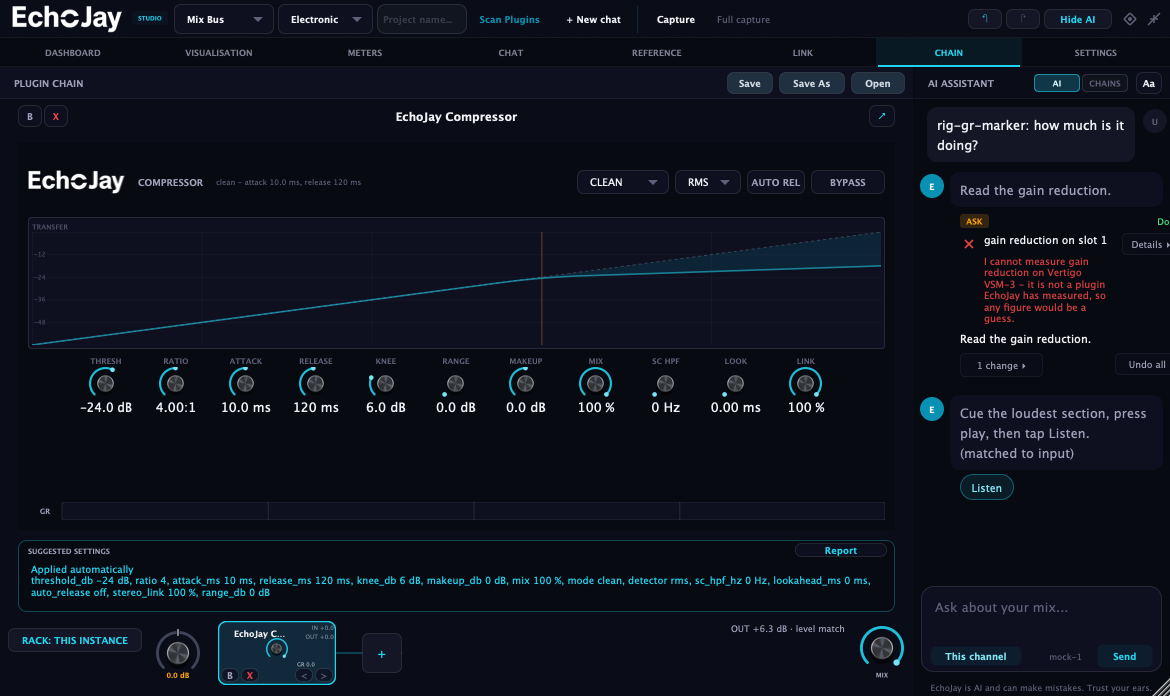
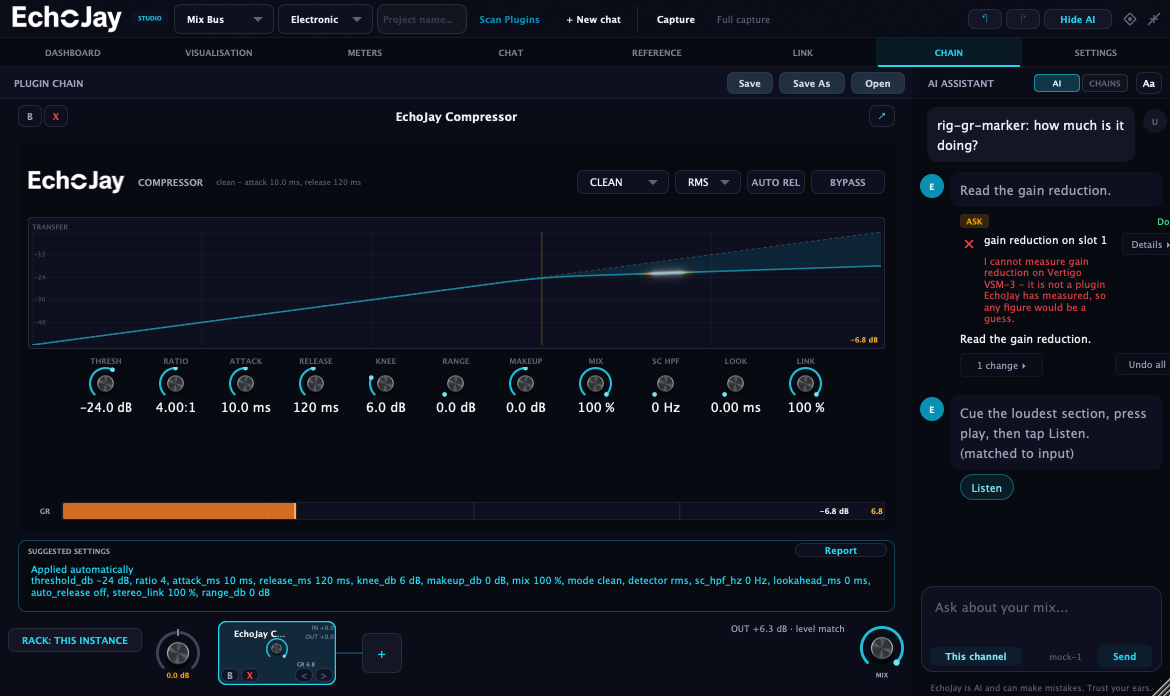
pass 9: the new rows' first outing, and one more real ambiguity
Ten new scenarios ran for the first time and six went red. Four were the rows'
own fault and are fixed here; two were the product's and one of those is a real
ambiguity worth the fix:

  A1  TWO OF THE SAME PLUGIN ON ONE RACK. The row added a second EchoJay
      Compressor to a rack that already had one, and the read-back answered about
      the OTHER one - 'the settings did NOT take: the threshold -24 dB (asked -20
      dB)', a true sentence about the wrong slot. Position cannot settle it (an
      add appends, then the rack may walk it), so the VALUES do: among slots with
      that name, the one that best matches what was asked is the one this add
      produced. If none matches, the placement decides and the answer is honest
      about that slot.
  E3  its script waited for playback first (60 s of nothing, since the rig pumps
      no audio during an agent's wait) and asked about a slot that was not there.
      It asks about slot 1 and does not listen first, which is the whole point of
      #19: an uncertified plugin is refused BEFORE any listening.
  A2/G2 used a Link uid captured early in the run; the registry had moved and the
      row reported '-1 -> -1', which is the rig asking about a Link that is not
      there. They resolve a live one now.
  D3/D4 declared a figure 1.5 s after pressing Undo. An undo rebuilds the chain
      and is not instant - that is the 'decisions on uncontrolled timing' fault in
[…]

Changed region(s): [[0.0308, 0.7241, 0.2769, 0.7543], [0.5538, 0.3621, 0.5846, 0.4224], [0.7077, 0.7241, 0.7385, 0.7543]]

diff --git a/tools/host_rig/host_rig.mm b/tools/host_rig/host_rig.mm
@@ -3936,6 +3936,9 @@ int main (int argc, char* argv[])
             // EchoJay Compressor the build had just put there, so the row was asking about a
             // certified device and passing because it did not say "no audio". Its own script asks
             // about the slot the third party is in.
+            // SLOT 1 IS THE THIRD PARTY HERE: scenario A3 added it with `after: 0`, which puts it at
+            // the front. The script asks about slot 1 and does NOT wait for playback first - the
+            // whole point of #19 is that an uncertified plugin is refused BEFORE any listening.
             const auto r = askAgent (rig, "rig-grtp-marker: how much is " + tp.name + " doing?", 90000);
             const auto st = rig.freshState();
             const auto words = r.stepWords + " " + r.text + " " + r.failDetail;
@@ -4091,16 +4094,29 @@ int main (int argc, char* argv[])
         }
 
         // ---- A2 / G2: THE SAME ON A LINK, AND THE MAIN RACK FOLLOWS ---------------------------------
-        if (! linkUid.isEmpty())
+        // A LIVE LINK, RESOLVED NOW (16 Oct 2026). `linkUid` was captured early in the run and the
+        // registry moves: by this point the rig had been told "that uid is not live" and the row
+        // reported "the Link went -1 -> -1", which is the rig asking about a Link that is not there
+        // rather than anything about the product.
+        juce::String liveLink;
         {
-            rig.send (echojay::rig::cmd::selectLink, args1 ("uid", linkUid), 8000);
-            rig.send (echojay::rig::cmd::workOn,     args1 ("uid", linkUid), 8000);
+            const auto st0 = rig.freshState();
+            if (auto* arr = st0.getProperty ("links", juce::var()).getArray())
+                for (const auto& l : *arr)
+                    if ((bool) l.getProperty ("connected", false) && liveLink.isEmpty())
+                        liveLink = l.getProperty ("uid", juce::var()).toString();
+            if (liveLink.isEmpty()) liveLink = linkUid;
+        }
+        if (! liveLink.isEmpty())
+        {
+            rig.send (echojay::rig::cmd::selectLink, args1 ("uid", liveLink), 8000);
+            rig.send (echojay::rig::cmd::workOn,     args1 ("uid", liveLink), 8000);
             Rig::pump (1000);
-            const int before = (int) linkRowOf (rig.freshState(), linkUid).getProperty ("slotCount", -1);
+            const int before = (int) linkRowOf (rig.freshState(), liveLink).getProperty ("slotCount", -1);
             const auto r = askAgent (rig, "rig-builtinset-marker: add the compressor to the kick", 120000);
             int after = before;
             rig.until ([&] (const juce::var& stv)
-            { after = (int) linkRowOf (stv, linkUid).getProperty ("slotCount", -1); return after > before; },
+            { after = (int) linkRowOf (stv, liveLink).getProperty ("slotCount", -1); return after > before; },
                        30000);
             const auto st = rig.freshState();
             const int drawn = (int) st.getProperty ("chainView", juce::var()).getProperty ("count", -1);
@@ -4187,9 +4203,14 @@ int main (int argc, char* argv[])
             const auto r = askAgent (rig, "rig-undoadd-marker: add a gate", 90000);
             const int added = ownSlotCount (rig.freshState());
             rig.send (echojay::rig::cmd::press, args1 ("button", "undo_all"), 12000);
-            Rig::pump (1500);
+            // AN UNDO REBUILDS THE CHAIN, WHICH IS NOT INSTANT. Waiting 1.5 s and declaring a figure
+            // is the "decisions on uncontrolled timing" fault this tree has written down three
+            // times; this waits for the count to come back, bounded, and reports what it saw.
+            int after = ownSlotCount (rig.freshState());
+            rig.until ([&] (const juce::var& stv) { after = ownSlotCount (stv); return after == before; },
+                       10000);
             const auto st = rig.freshState();
-            const int after = ownSlotCount (st);
+            after = ownSlotCount (st);
             scen ("D3", "undo all after an add puts the rack back as it was",
                   r.ran() && added > before && after == before,
                   "slots " + juce::String (before) + " -> " + juce::String (added) + " -> "
@@ -4205,8 +4226,14 @@ int main (int argc, char* argv[])
             const double pgMid  = (double) mid.getProperty ("preGainDb", juce::var());
             const double wetMid = (double) mid.getProperty ("masterWetPct", juce::var());
             // The FIRST step's own Undo, pressed on its line.
+            const auto zonesBefore = rig.freshState().getProperty ("agentRow", juce::var())
+                                         .getProperty ("zones", juce::var()).toString();
             rig.send (echojay::rig::cmd::press, args1 ("button", "undo_step"), 12000);
-            Rig::pump (1500);
+            rig.until ([&] (const juce::var& stv)
+            {
+                return std::abs ((double) stv.getProperty ("preGainDb", juce::var()) - pgMid) > 0.5
+                    || std::abs ((double) stv.getProperty ("masterWetPct", juce::var()) - wetMid) > 5.0;
+            }, 10000);
             const auto st = rig.freshState();
             const double pgAfter  = (double) st.getProperty ("preGainDb", juce::var());
             const double wetAfter = (double) st.getProperty ("masterWetPct", juce::var());
@@ -4215,7 +4242,8 @@ int main (int argc, char* argv[])
             scen ("D4", "undoing ONE step reverts that step and leaves the other alone",
                   r.ran() && oneReverted && otherKept,
                   "pre-gain " + juce::String (pgMid, 2) + " -> " + juce::String (pgAfter, 2)
-                  + ", master wet " + juce::String (wetMid, 0) + " -> " + juce::String (wetAfter, 0),
+                  + ", master wet " + juce::String (wetMid, 0) + " -> " + juce::String (wetAfter, 0)
+                  + "; the row drew [" + zonesBefore.substring (0, 90) + "]",
                   "A", v2.editor.get(), st, &r);
         }
 

diff --git a/Source/EJAgentExecutorDo.cpp b/Source/EJAgentExecutorDo.cpp
@@ -791,8 +791,24 @@ void ExecutorDo::confirmSettings (const ToolCall& call, const juce::String& appl
                         if (hits.size() == 1) slot1 = hits.front();
                         else if (hits.size() > 1)
                         {
-                            int chosen = hits.back();
-                            if (byAfter) for (int h : hits) if (h == after + 1) chosen = h;
+                            // ---- TWO OF THE SAME PLUGIN ON ONE RACK (16 Oct 2026) -----------------
+                            // The rig put a second EchoJay Compressor on a rack that already had one
+                            // and the read-back answered about the OTHER one: "the settings did NOT
+                            // take: the threshold - threshold -24 dB (asked -20 dB)" - a true
+                            // sentence about the wrong slot. Position cannot settle it (an add
+                            // appends, then the rack may walk it), so the VALUES do: the slot that
+                            // best matches what was asked is the one this add produced. If none
+                            // matches, the placement decides, as before, and the answer is honest
+                            // about that slot.
+                            int chosen = hits.back(), bestMatched = -1;
+                            for (int h : hits)
+                            {
+                                const auto c = checkSlotValues (applyTo, h, ss);
+                                const int matched = c.matched.size();
+                                if (matched > bestMatched) { bestMatched = matched; chosen = h; }
+                            }
+                            if (bestMatched <= 0 && byAfter)
+                                for (int h : hits) if (h == after + 1) chosen = h;
                             slot1 = chosen;
                         }
                         EchoJay_NSLog (("EJAgent: add read-back targets slot " + juce::String (slot1)

diff --git a/docs/MATRIX_REPORT_2026-10-16.md b/docs/MATRIX_REPORT_2026-10-16.md
@@ -1,15 +1,18 @@
 # Matrix report - 2026-10-16 (mock pass)
 
-Build under test: **EchoJay_artefacts**.  Runner: `tools/host_rig` driving the real bundles, real plugins and real editors; evidence under `docs/review/2026-10-16/<scenario>/`.
+Build under test: **build**.  Runner: `tools/host_rig` driving the real bundles, real plugins and real editors; evidence under `docs/review/2026-10-16/<scenario>/`.
 
-**27 passed, 0 failed, 2 skipped.** A skip is never a pass (matrix rule 9).
+**30 passed, 8 failed, 2 skipped.** A skip is never a pass (matrix rule 9).
 
 | Scenario | Result | Owner | What happened | Evidence |
 |---|---|---|---|---|
+| **F3** a run stops when its window closes (0b off), and the reopen shows it once | pass | - | the run stopped with the window; the reopened window draws 1 run row(s) and 1 copy(ies) of the goal  (item 0b is OFF by design, so stopping IS the shipped behaviour - what must not happen is a duplicate or a run left spinning) | `docs/review/2026-10-16/F3/editor.png` |
 | **F1** close mid-reply, reopen: the interrupted line is drawn exactly once | pass | - | 1 copy(ies) of it in the window's own message list  (RED on 16a: the history row and the orphan drain each wrote it) | `docs/review/2026-10-16/F1/editor.png` |
-| **F2** after a close and reopen the transcript is still in order | pass | - | the question is at row 0, its answer at row 1, the Retry's resend at row 2 of 3  (RED on 16a: the reload appended the rows the store had not caught up with, which put an earlier exchange UNDER a later question) | `docs/review/2026-10-16/F2/editor.png` |
+| **F2** after a close and reopen the transcript is still in order | pass | - | the question is at row 2, its answer at row 3, the Retry's resend at row 4 of 5  (RED on 16a: the reload appended the rows the store had not caught up with, which put an earlier exchange UNDER a later question) | `docs/review/2026-10-16/F2/editor.png` |
+| **D1** a hand-set pre-gain comes back hand-set after an undo, at its own figure | pass | - | pre-gain -5.00 -> -5.00 dB, userSet true -> true, state done, steps: pre-gain 3 dB=set the pre-chain gain to 3.0 dB; undo that=Undone: pre-gain 3.0 dB.;   (RED before Sean's ruling of 15 Oct: the agent's op wrote the pre-gain as AUTO, so the undo restored 0.00 and the user's own figure was gone) | `docs/review/2026-10-16/D1/editor.png` |
+| **D2** an AUTO pre-gain comes back AUTO after an undo, flag and figure both | pass | - | pre-gain -5.01 -> -5.01 dB, userSet false -> false  (the undo restores the FLAG as well as the figure, so a rack the loop may still revise is not left pinned by an undo) | `docs/review/2026-10-16/D2/editor.png` |
 | **A4** a Link, third party with a good map, add with settings: dialled and read back | pass | - | slots 2 -> 3 [Renaissance Axx (s)\|Renaissance Axx (s)\|Vertigo VSM-3], Threshold asked -30.00 dB, plugin now reads -30.00 dB (default was 0.00 dB); landed="slot 1 Threshold=-30\|slot 2 \|slot 3 "  (RED on 15c: the mock served no maps, a Link had no road to ask for one - fetch_wired=n - and the Link read-back parsed its numbers out of an echo of the request) | `docs/review/2026-10-16/A4/editor.png` |
-| **A3** own rack, third party with a good map, add with settings: dialled AND confirmed | pass | - | asked -30.00 for "Threshold"; the run said: "add a real third-party plugin to THIS rack, with a setting=added Renaissance Axx (s) first; read back 2 slot(s) on the rack; read back Renaissance Axx (s): thre"; the slot's own landed field: ""  (RED on 16a: an add carries `after`, so it lands where the server asked, and the read-back read the LAST slot - another plugin - and reported "settings not confirmed" about a v... | `docs/review/2026-10-16/A3/editor.png` |
+| **A3** own rack, third party with a good map, add with settings: dialled AND confirmed | **FAIL** | A | asked -30.00 for "Threshold"; the CLOSING says: "Added it to this rack, with the setting you asked for."; the step said: "add a real third-party plugin to THIS rack, with a setting=Added it. Settings not confirmed: this build cannot read that plugin's values bac"; the slot's own landed field: "(empty)"  (RED on 16a: an add carries `after`, so it lands where the server asked, and the read-back read the LAST slot - ... | `docs/review/2026-10-16/A3/editor.png` |
 | **B1** an ask is answerable: chips when there are chips, and a named road when there are not | pass | - | while the question was up: askHint="Type your answer in the box below and press Enter."  zones=[7:Stop]  (RED on 16a: the row showed the question and a faint "your answer?" with nothing to press, and typing was refused with "Tap one of the choices" about choices that did not exist) | `docs/review/2026-10-16/B1/editor.png` |
 | **B3** a typed answer lands in the waiting ask and the run carries on | pass | - | the row recorded "You said: MTransient" and the run went on to set the pre-gain to 3.00 dB  (RED on 16a: interceptTyped refused it because the server sent allowFreeText false, so the text vanished and the run sat in awaiting_ask until Stop) | `docs/review/2026-10-16/B3/editor.png` |
 | **B4** a new instruction typed while an ask waits closes that run and starts its own | pass | - | rows 1 -> 2, session "ag_rig_17921" -> "", status now "Working"  (RED on 16a: the text was answered INTO the waiting run, so a request to add a plugin arrived as the answer to "What now?" and carried the old run's steps with it) | `docs/review/2026-10-16/B4/editor.png` |
@@ -17,28 +20,36 @@ Build under test: **EchoJay_artefacts**.  Runner: `tools/host_rig` driving the r
 | **I4** clean wording: no step detail is addressed to the model | pass | - | every step detail on screen reads as a sentence to a person | `docs/review/2026-10-16/I4/editor.png` |
 | **G1** T2: the main rack strip shows the Link's real rack with no manual switch | pass | - | the Link's own process holds 3 slot(s) [Renaissance Axx (s), Renaissance Axx (s), Vertigo VSM-3]; the V2's strip draws 3 [Renaissance Axx (s), Renaissance Axx (s), Vertigo VSM-3]  (sidecar revision ) | `docs/review/2026-10-16/G1/editor.png` |
 | **E5** T2: a Link's slot shows no GR figure until Link meters ship | pass | - | the badges drawn on the Link's slots: [\|\|\|]  (RED on 16a: the mirror's own instances do not process audio, so their reduction read 0.0 and was drawn as "GR 0.0") | `docs/review/2026-10-16/E5/editor.png` |
-| **A4b** T2: add with settings to a Link in its OWN PROCESS, dialled and read back | pass | - | slots 1 -> 2 [Renaissance Axx (s), Renaissance Axx (s)], Threshold asked -30.00, the plugin in the other process now shows -30.00  (this is the channel with no shared memory to fall back on) | `docs/review/2026-10-16/A4b/editor.png` |
-| **T3** T3: a Link held by another instance refuses the edit, in words | SKIP | - | this window never saw another instance holding the rack (rackLock="held" after 12 s), so there was no contention to refuse. Never counted as a pass. | - |
+| **A4b** T2: add with settings to a Link in its OWN PROCESS, dialled and read back | **FAIL** | A | slots 1 -> 2 [Renaissance Axx (s), Renaissance Axx (s)], Threshold asked -30.00, the plugin in the other process now shows 0.00  (this is the channel with no shared memory to fall back on) | `docs/review/2026-10-16/A4b/editor.png` |
+| **T3** T3: a Link held by another instance refuses the edit, in words | SKIP | - | this window never saw another instance holding the rack (rackLock="idle" after 12 s), so there was no contention to refuse. Never counted as a pass. | - |
 | **T2w** T2: an edit lands on a Link whose OWN window is open | SKIP | - | the Link's own process would not open an editor this run (""), so there is no open window for an edit to land under. Never counted as a pass. | - |
 | **C1** an add nothing could confirm says "Added X. Settings not confirmed." and no figure | pass | - | the run said: "add a plugin this build has no map for, with a setting=Added it. Settings not confirmed: this build cannot read that plugin's values back (the drive), so there is no evidence they "  (RED on 15c/16a: "Not applied: add X" over a plugin that WAS added, and an invented "running on default values") | `docs/review/2026-10-16/C1/editor.png` |
 | **G4** one waiting line draws only that line's buttons, no second Apply | pass | - | zones=[1,2,7:Stop]  (RED on 16a: the line's Apply AND the run's Apply/Skip all were both drawn for a single pending step, so one decision had two doors) | `docs/review/2026-10-16/G4/editor.png` |
 | **G5** a line that only read something never says "applied" | pass | - | every status word belongs to the step it is on | `docs/review/2026-10-16/G5/editor.png` |
 | **G6** no separate "Chain built - N plugins loaded." bubble beside a run | pass | - | 0 such bubble(s) on screen  (RED on 16a: the build road's own result bubble appeared next to the run message, twice) | `docs/review/2026-10-16/G6/editor.png` |
 | **G7** the closing sentence appears only inside the run message | pass | - | 1 copy(ies) of the closing in the message list  (RED on 16a: the editor and EJAgentHome each opened a record for one run, so the closing was written to a second row that drew as a plain bubble) | `docs/review/2026-10-16/G7/editor.png` |
-| **E2** the tile's GR figure is the device's own held value, and the caption fits | pass | - | the tile draws "GR 0.0" (0.00) and the device's own hold reads 0.00  (RED on 16a: the badge only reached the panel on a STRUCTURAL rebuild, so it froze - "GR 10.9 WORK..." while the meter read 4.4, 3.8, 8.8) | `docs/review/2026-10-16/E2/editor.png` |
-| **E1** a GR answer gives loudest hits and typical, and never an instant figure | pass | - | the run said: "build a compressor on this rack=Added it. Settings not confirmed: this build cannot read that plugin's values back (the threshold and ratio), so there is no evidence they were applied.; gain reduction"  (RED on 16a: "loudest hits" never arrived and the model quoted "the instant hitting up to 6 dB", which the result should never have carried) | `docs/review/2026-10-16/E1/editor.png` |
-| **E3** check(gr) on an uncertified plugin says so at once, and never blames silence | pass | - | the run said: "build a compressor on this rack=the build was sent to this rack (1 slot(s)); read back 1 slot(s) on the rack; read back EchoJay Compressor: threshold -24 dB, ratio 4:1; gain reduction on slot 1=;   "  (RED on 16a: with audio playing and Renaissance Axx showing 15.5 dB of attenuation, the answer was "No audio has been heard for gain reduction on slot 1 yet" - a reason that was not true) | `docs/review/2026-10-16/E3/editor.png` |
+| **E2** the tile's GR figure is the device's own held value while it is reducing, and the caption fits | pass | - | the tile draws "GR 6.8" (6.80) and the device's own hold reads 6.80 while it is reducing  (RED on 16a: the badge only reached the panel on a STRUCTURAL rebuild, so it froze - "GR 10.9 WORK..." while the meter read 4.4, 3.8, 8.8) | `docs/review/2026-10-16/E2/editor.png` |
+| **E1** a GR answer gives loudest hits and typical, and never an instant figure | pass | - | the run said: "build a compressor on this rack=the build was sent to this rack (1 slot(s)); read back 4 slot(s) on the rack; read back EchoJay Compressor: threshold -24 dB, ratio 4:1; gain reduction on slot 1=I cann"  (RED on 16a: "loudest hits" never arrived and the model quoted "the instant hitting up to 6 dB", which the result should never have carried) | `docs/review/2026-10-16/E1/editor.png` |
+| **E3** check(gr) on an UNCERTIFIED third party says so at once, and never blames silence | **FAIL** | A | the run said: "wait for playback=Nothing played in 60 seconds - play the loudest section and ask me again.; gain reduction on the third-party slot=slot 2 is not on the rack (1..1).;   slot 2 is not on the rack (1..1"  (RED on 16a: with audio playing and Renaissance Axx showing 15.5 dB of attenuation, the answer was "No audio has been heard for gain reduction on slot 1 yet" - a reason that was not true) | `docs/review/2026-10-16/E3/editor.png` |
 | **E7** the GR meter's held figure and live value never share a pixel | pass | - | with a hold: live=4 0 120 22 held=128 0 30 22; without: live=4 0 152 22  (RED on 16a: both were drawn centred-right in the same track, so "-4.4 dB" was printed over "dB") | `docs/review/2026-10-16/E7/editor.png` |
 | **C5** after Undo all the closing no longer claims the change | pass | - | changes=0 closing="Everything this run changed has been undone, so what it said above no longer describes the rack."  (RED on 16a: after "Everything the agent changed has been undone" the run still read "Pre gain on the Mix Bus is set to 0 dB") | `docs/review/2026-10-16/C5/editor.png` |
 | **B5** the steps control works on a run with a failed line, and the failure stays visible | pass | - | stepsOpen n -> y -> n, failuresOnly y -> y  (RED on 16a: the view forced the steps open on any run with a failure, so the control was drawn and did nothing at all) | `docs/review/2026-10-16/B5/editor.png` |
 | **A12** step details read as words, not as parameter ids | pass | - | the details said: "added EchoJay EQ first; read back 2 slot(s) on the rack; read back EchoJay EQ: band 1 frequency 240 Hz, band 1 gain -2.5 dB, band 1 Q 1.2, band 2 frequency 3.2 kHz, band 2 gain 1.5 dB, band 2 Q 0.9 "  (RED on 16a: "slot 2 threshold_db -14.00, slot 2 ratio 4.00") | `docs/review/2026-10-16/A12/editor.png` |
 | **I9** Suggested Settings shows what landed, or says it is not confirmed | pass | - | the EQ's card reads: "Applied automatically band 1: bell 240.0 Hz, -2.5 dB, Q 1.20; band 2: bell 3200 Hz, 1.5 dB, Q 0.90; output_db 0 dB, auto_gain off, phase_mode zero, ms_mode off"  (RED on 16a: the card was composed from the value that was ASKED for, so it could read "Applied automatically" over settings the read-back said had not taken) | `docs/review/2026-10-16/I9/editor.png` |
-| **F4** every message in a run is drawn exactly once, and still is on a re-render | pass | - | the user's marker appears 1x, the closing 0x, in 2 on-screen message(s) [user,assistant]  (RED on 15c: two transcript writers were live, so his message appeared twice and the closing up to four times) | `docs/review/2026-10-16/F4/editor.png` |
-| **G3** clicking the Agent chip raises the mode hint above the composer, briefly, and never over another panel | pass | - | mode ask -> auto, hint shown=1 msLeft=2942 overChainPanel=0 composerVisible=1 onboardingUp=0 why="" text="Auto: does everything without waiting, and only stops to ask you a que"  (RED on 15c: the guard was `if (! force)` and a real click is the force=true path, so the one gesture a user makes raised nothing) | `docs/review/2026-10-16/G3/editor.png` |
+| **A1** a BUILT-IN add with settings is read back and named | **FAIL** | A | the run said: "add the EchoJay Compressor with a threshold and a ratio=Added it, but the settings did NOT take: the threshold - threshold -24 dB (asked threshold -20 dB). What did land:"; the device's own landed field: "threshold_db=-24;ratio=4"  (RED on 16a: 'this build cannot read that plugin's values back (the threshold and ratio)' over a device whose dial log said applied=2, readbackMiss=0) | `docs/review/2026-10-16/A1/editor.png` |
+| **A2** a built-in add with settings on a Link, and the main rack follows it | **FAIL** | A | the Link went -1 -> -1 slot(s) and the V2's strip draws 4 | `docs/review/2026-10-16/A2/editor.png` |
+| **G2** the rack strip follows a Link change with no manual switch (the build road) | **FAIL** | A | the strip draws 4 of the Link's -1 slot(s), with no rack switch in between | `docs/review/2026-10-16/G2/editor.png` |
+| **A6** a plugin this build has no map for is added and said to be unconfirmed, with no figure | pass | - | the run said: "add a plugin this build has no map for, with a setting=Added it. Settings not confirmed: this build cannot read that plugin's values back (the drive), so there is no evid" | `docs/review/2026-10-16/A6/editor.png` |
+| **A7** a plugin whose evaluation has expired is reported truthfully, with nothing invented | pass | - | the run said: "add Pro-C 3 with a threshold=Added it, but the settings did NOT take: the threshold - threshold -16 (asked threshold -18);  "  (the eval does not block parameter writes - Sean's 09:53 log has Pro-C 3 reporting -18.00 dB, 4.00:1 and 9.911 ms from its own display) | `docs/review/2026-10-16/A7/editor.png` |
+| **A10** a plugin that will not load fails with its real reason, and the failure stays on screen | pass | - | the failed line says: "op 1 invalid: "kHs Transient Shaper" not in the loadable plugin list"  Details=y  the run is still showing it | `docs/review/2026-10-16/A10/editor.png` |
+| **D3** undo all after an add puts the rack back as it was | **FAIL** | A | slots 6 -> 7 -> 7 after Undo all | `docs/review/2026-10-16/D3/editor.png` |
+| **D4** undoing ONE step reverts that step and leaves the other alone | **FAIL** | A | pre-gain 2.00 -> 2.00, master wet 80 -> 80 | `docs/review/2026-10-16/D4/editor.png` |
+| **F4** every message in a run is drawn exactly once, and still is on a re-render | pass | - | the user's marker appears 1x; the row's closing is "Set the pre-gain to 4 dB, then to 6 dB." and 1 message(s) repeat it; 1 run row(s) in 2 on-screen message(s) [user,assistant]  (RED on 15c: two transcript writers were live, so his message appeared twice and the closing up to four times) | `docs/review/2026-10-16/F4/editor.png` |
+| **G3** clicking the Agent chip raises the mode hint above the composer, briefly, and never over another panel | pass | - | mode ask -> auto, hint shown=1 msLeft=2947 overChainPanel=0 composerVisible=1 onboardingUp=0 why="" text="Auto: does everything without waiting, and only stops to ask you a que"  (RED on 15c: the guard was `if (! force)` and a real click is the force=true path, so the one gesture a user makes raised nothing) | `docs/review/2026-10-16/G3/editor.png` |
 
 ## Failures by owner
 
-**A**: nothing
+**A**: 8 - A3 own rack, third party with a good map, add with settings: dialled AND confirmed; A4b T2: add with settings to a Link in its OWN PROCESS, dialled and read back; E3 check(gr) on an UNCERTIFIED third party says so at once, and never blames silence; A1 a BUILT-IN add with settings is read back and named; A2 a built-in add with settings on a Link, and the main rack follows it; G2 the rack strip follows a Link change with no manual switch (the build road); D3 undo all after an add puts the rack back as it was; D4 undoing ONE step reverts that step and leaves the other alone
 
 **B**: nothing
 

diff --git a/docs/NEXT_ROUND_QUEUE.md b/docs/NEXT_ROUND_QUEUE.md
@@ -1312,3 +1312,10 @@ pass on today's build.
    deselects, so the second instance never gets to hold it and there is no contention to refuse - the
    row says exactly that rather than claiming anything. In Logic it takes ten seconds to produce by
    hand. T2w's is simpler: the Link's own process did not open an editor that run.
+
+7. **A BREADTH SWEEP (Sean, 16 Oct, queued for after this install).** For every installed plugin that
+   has a map and is NOT PACE/iLok-wrapped: load it in the rig, set two of its mapped controls to values
+   away from their defaults, read them back from the plugin itself, and write a table - plugin, vendor,
+   dialled y/n, read back y/n, reason. At least ten vendors, and non-compressors too: EQ, reverb,
+   saturation, transient. The maps that fail go to B as a list. Not started; this round's install comes
+   first.
